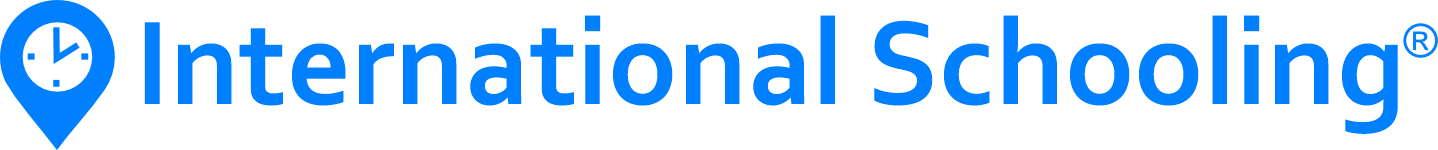
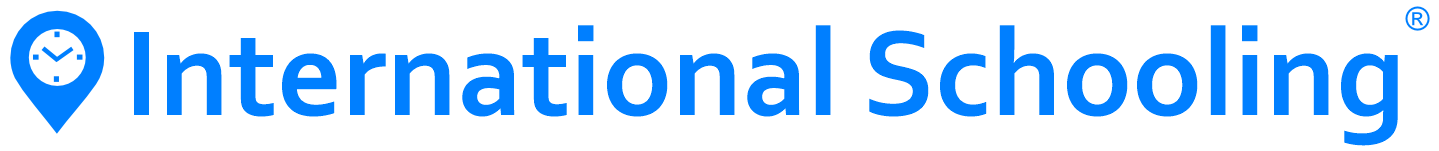
min resources part v2.0.46

Changed region(s): [[0.0, 0.0, 1.0, 0.9867]]

diff --git a/static/theme2/css/new-theme-style2.css b/static/theme2/css/new-theme-style2.css
@@ -8900,7 +8900,7 @@ transition:width .2s
 .app-header__logo .logo-src {
 	height:50px;
 	width:225px;
-	background:url(../images/logo-is.png)
+	background:url(../images/is_logo_2025_blue.png)
 }
 @media(max-width: 400px){
 	.app-header__logo .logo-src{width: 175px;background-position: top center;}
